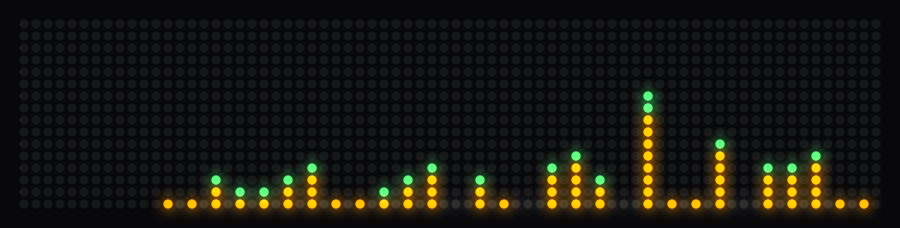
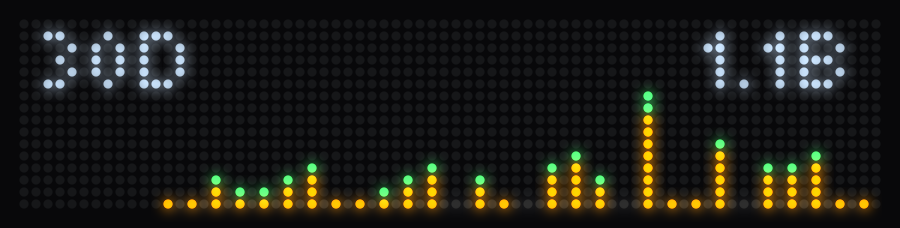
readme-shots: drive the real history module for its text overlays
The first mockups called paintBars/paintHeatmap directly, which is only
the chart asset — the screen's label, window total, and age mark live in
the module's render() as text elements over the animation. Now the tool
feeds a stats-cache fixture file to claudeHistoryModule and rasterizes
its element list onto the painted frame (the animation element at 0,0
stands in for the uploaded asset), so 30D shows its total top-right and
ALL stacks label and total in the left margin, as on the device. The
age mark stays hidden because todayImpl anchors to the fixture's newest
day — fresh data, zero-alpha age, same as live.

Changed region(s): [[0.0311, 0.0921, 0.2178, 0.4298], [0.7778, 0.1228, 0.9644, 0.4298]]

diff --git a/tools/readme-shots.ts b/tools/readme-shots.ts
@@ -22,6 +22,8 @@
  * `generate` overwrites docs/img/*.png with the curated showcase set.
  */
 import { inflateSync } from 'node:zlib';
+import { mkdtempSync, rmSync, writeFileSync } from 'node:fs';
+import { tmpdir } from 'node:os';
 import { join } from 'node:path';
 import { encodePng } from '../src/png';
 import type { ModuleContext, MonitorModule } from '../src/module';
@@ -29,7 +31,7 @@ import { claudeGaugeModule } from '../src/modules/claude-gauge';
 import { claudeDashModule } from '../src/modules/claude-dash';
 import { grokGaugeModule } from '../src/modules/grok-gauge';
 import { cpuModule } from '../src/modules/cpu';
-import { paintBars, paintHeatmap, windowDays, SCREENS } from '../src/modules/claude-history';
+import { claudeHistoryModule, paintBars, paintHeatmap, windowDays, SCREENS } from '../src/modules/claude-history';
 import type { DayTokens } from '../src/stats';
 import type { Usage } from '../src/usage';
 import type { GrokWeeklyUsage } from '../src/grok-usage';
@@ -226,8 +228,9 @@ function anchor(x: number, y: number, w: number, h: number, align: string): { x0
  * firmware: `small`/`normal` text (LVGL label placement: glyph top =
  * box_top + (line_height - base_line) - box_h - ofs_y, advances FP4-rounded,
  * letter_space 0) and solid radius-0 rectangles, alpha src-over on black. */
-export function rasterize(elements: unknown[], fonts: Record<string, Font>): Uint8Array {
+export function rasterize(elements: unknown[], fonts: Record<string, Font>, base?: Uint8Array): Uint8Array {
   const frame = new Uint8Array(W * H * 3);
+  if (base) frame.set(base);
   const blend = (x: number, y: number, c: Rgba): void => {
     if (x < 0 || x >= W || y < 0 || y >= H || c.a <= 0) return;
     const o = (y * W + x) * 3;
@@ -239,6 +242,13 @@ export function rasterize(elements: unknown[], fonts: Record<string, Font>): Uin
   for (const raw of elements) {
     const el = raw as Record<string, any>;
     if (el.display === 'back') continue;
+    if (el.type === 'animation') {
+      // The history chart: its content is the painted frame passed as `base`
+      // (the module bakes paintBars/paintHeatmap output into the asset), so
+      // the element itself has nothing left to contribute.
+      if (el.x !== 0 || el.y !== 0) throw new Error('animation elements are only supported at 0,0');
+      continue;
+    }
     if (el.type === 'text') {
       const font = fonts[el.font ?? 'normal'];
       if (!font) throw new Error(`unsupported font '${el.font}'`);
@@ -497,9 +507,35 @@ async function generate(fonts: Record<string, Font>): Promise<void> {
       days.push({ date, tokensByModel, total: Object.values(tokensByModel).reduce((a, b) => a + b, 0) });
     }
   }
-  const bars = SCREENS.find((s) => s.days === 30) ?? SCREENS[0]!;
-  shots['history-30d'] = paintBars(windowDays(days, bars.days), bars);
-  shots['history-heatmap'] = paintHeatmap(days);
+  // Drive the real module (label, total, and age text live in its render(),
+  // not in the painted chart); the painted frames stand in for the uploaded
+  // asset the chart element references.
+  const statsDir = mkdtempSync(join(tmpdir(), 'readme-shots-'));
+  try {
+    const statsPath = join(statsDir, 'stats-cache.json');
+    writeFileSync(
+      statsPath,
+      JSON.stringify({
+        version: 5,
+        dailyModelTokens: days.map((d) => ({ date: d.date, tokensByModel: d.tokensByModel })),
+      })
+    );
+    const history = claudeHistoryModule({
+      statsPath,
+      todayImpl: () => days.at(-1)!.date, // fresh data: the age mark stays hidden
+      uploadImpl: async () => {},
+      scheduleImpl: () => () => {}, // no timers to keep the process alive
+      intros: false,
+    });
+    history.init?.(nullContext());
+    await history.poll();
+    const bars = SCREENS.find((s) => s.days === 30) ?? SCREENS[0]!;
+    shots['history-30d'] = rasterize(history.render({ refreshing: false }), fonts, paintBars(windowDays(days, bars.days), bars));
+    history.onEncoder?.(2); // 30D -> 7D -> ALL
+    shots['history-heatmap'] = rasterize(history.render({ refreshing: false }), fonts, paintHeatmap(days));
+  } finally {
+    rmSync(statsDir, { recursive: true, force: true });
+  }
 
   // Grok weekly — 38%, 4 days 8 hours to the weekly reset.
   const grok: GrokWeeklyUsage = {
